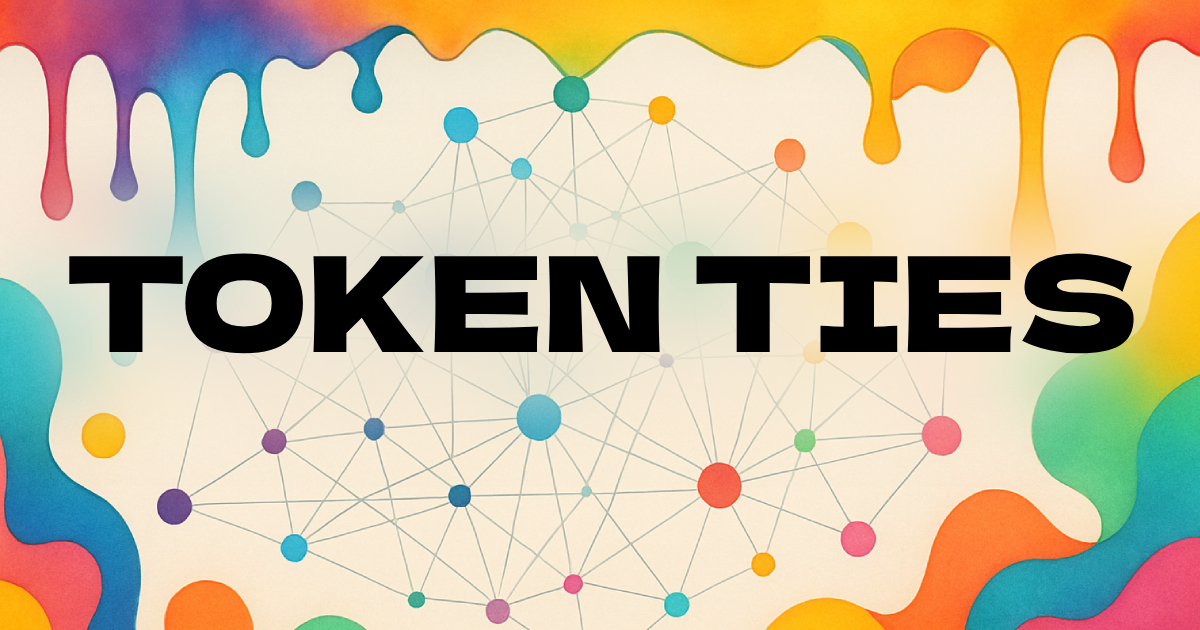
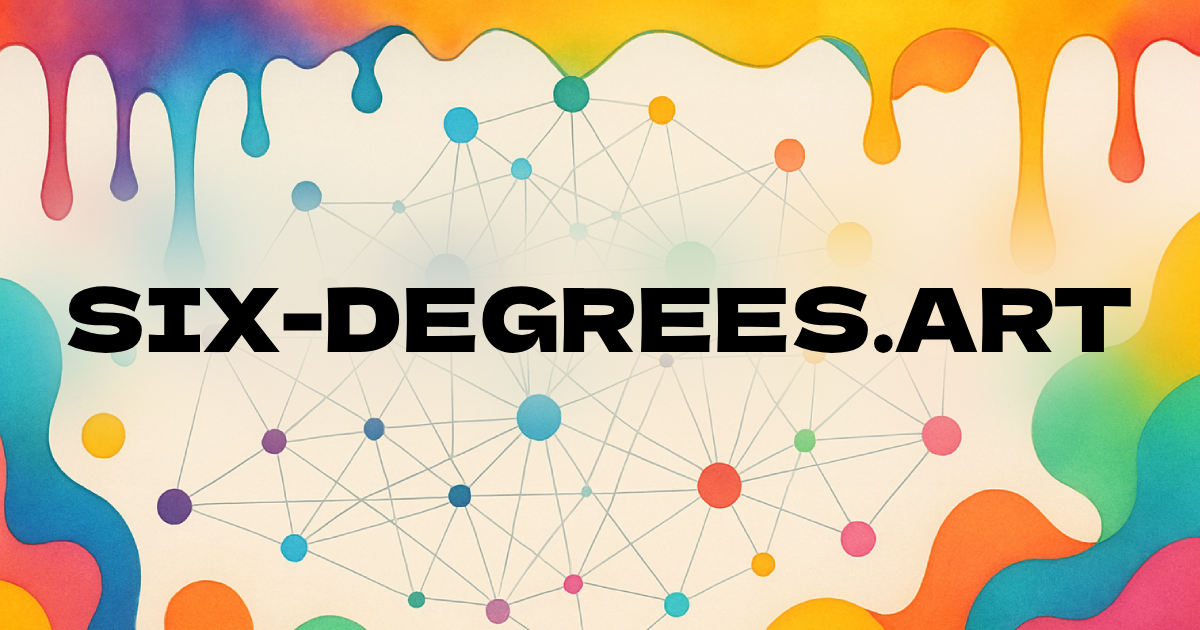
name change

Changed region(s): [[0.0308, 0.3921, 0.9558, 0.573]]

diff --git a/src/app/page.tsx b/src/app/page.tsx
@@ -25,6 +25,7 @@ import {
   Code, 
   Package, 
   ChevronDown,
+  ChevronUp,
   Hash,
   Sparkles,
   Info,
@@ -125,6 +126,9 @@ export default function Home() {
   const [existingNFTs, setExistingNFTs] = useState<Map<string, number>>(new Map()); // contract+identifier -> NFT index
   const [multiOwnership, setMultiOwnership] = useState<Map<number, Set<number>>>(new Map()); // NFT index -> Set of Profile node IDs
 
+  // Add collapsible card state
+  const [isCardCollapsed, setIsCardCollapsed] = useState(false);
+
   // Contract expansion state
   const [expandedContracts, setExpandedContracts] = useState<Set<string>>(new Set()); // Track which contracts have been expanded
   const [loadingContract, setLoadingContract] = useState(false);
@@ -134,7 +138,8 @@ export default function Home() {
   // Settings state
   const [nftFetchLimit, setNftFetchLimit] = useState(10); // Default 10 NFTs
   const [collectorFetchLimit, setCollectorFetchLimit] = useState(5); // Default 5 collectors
-  const [contractExpandLimit, setContractExpandLimit] = useState(10); // Default 10 NFTs for contract expansion
+  const [contractExpandLimit, setContractExpandLimit] = useState(10);
+  const [linkTransparency, setLinkTransparency] = useState(0.6); // Default 60% transparency // Default 10 NFTs for contract expansion
 
   // Generate graph data based on user profile and NFTs - memoized to prevent re-renders
   const gData = useMemo(() => ({
@@ -1107,24 +1112,24 @@ export default function Home() {
   return (
     <div className="w-screen h-screen m-0 p-0 overflow-hidden bg-gradient-to-br from-blue-500 to-purple-600">
       {/* Top Right Buttons */}
-      <div className="fixed top-6 right-6 z-30 flex gap-2">
+      <div className="fixed top-6 right-6 z-30 flex gap-2 flex-wrap">
         <Button
           onClick={() => setShowSettingsModal(true)}
           variant="secondary"
           size="sm"
-          className="bg-black/70 hover:bg-black/80 text-white border-white/20"
+          className="bg-black/70 hover:bg-black/80 text-white border-white/20 text-xs sm:text-sm"
         >
-          <Settings className="w-4 h-4 mr-2" />
-          Settings
+          <Settings className="w-4 h-4 mr-1 sm:mr-2" />
+          <span className="hidden sm:inline">Settings</span>
         </Button>
         <Button
           onClick={() => setShowAboutModal(true)}
           variant="secondary"
           size="sm"
-          className="bg-black/70 hover:bg-black/80 text-white border-white/20"
+          className="bg-black/70 hover:bg-black/80 text-white border-white/20 text-xs sm:text-sm"
         >
-          <Info className="w-4 h-4 mr-2" />
-          About
+          <Info className="w-4 h-4 mr-1 sm:mr-2" />
+          <span className="hidden sm:inline">About</span>
         </Button>
       </div>
 
@@ -1201,6 +1206,22 @@ export default function Home() {
               />
             </div>
             
+            <div className="space-y-2">
+              <label htmlFor="link-transparency" className="text-sm font-medium text-gray-700">
+                Link Opacity ({Math.round(linkTransparency * 100)}%)
+              </label>
+              <Input
+                id="link-transparency"
+                type="range"
+                min="0"
+                max="1"
+                step="0.1"
+                value={linkTransparency}
+                onChange={(e) => setLinkTransparency(parseFloat(e.target.value))}
+                className="w-full"
+              />
+            </div>
+            
             <div className="pt-4 border-t border-gray-200">
               <Button
                 onClick={handleReset}
@@ -1224,7 +1245,7 @@ export default function Home() {
           <DialogHeader>
             <DialogTitle className="text-2xl font-bold bg-gradient-to-r from-blue-600 to-purple-600 bg-clip-text text-transparent flex items-center gap-2">
               <Network className="w-6 h-6 text-blue-600" />
-              About Token Ties
+              About Six Degrees of Art
             </DialogTitle>
           </DialogHeader>
           <div className="space-y-4">
@@ -1269,7 +1290,7 @@ export default function Home() {
           <DialogHeader>
             <DialogTitle className="text-2xl font-bold bg-gradient-to-r from-blue-600 to-purple-600 bg-clip-text text-transparent flex items-center gap-2">
               <Network className="w-6 h-6 text-blue-600" />
-              Token Ties
+              Six Degrees of Art
             </DialogTitle>
             <DialogDescription className="text-base">
               Discover and visualize NFT collections in 3D space
@@ -1407,7 +1428,7 @@ export default function Home() {
           height={typeof window !== 'undefined' ? window.innerHeight : 600}
           backgroundColor="rgba(0,0,0,0)"
           linkColor={getLinkColor}
-          linkOpacity={0.6}
+          linkOpacity={linkTransparency}
           linkWidth={0.5}
           linkCurvature={0.2}
           nodeRelSize={6}
@@ -1444,28 +1465,43 @@ export default function Home() {
 
       {/* Consolidated Info Card */}
       {(userProfile || selectedProfile || selectedNFT) && (
-        <Card className="fixed top-6 left-6 max-w-sm z-20 backdrop-blur-md bg-black/80 border-white/20 text-white">
-          <CardHeader className="pb-3">
-            <CardTitle className="text-lg flex items-center gap-2">
-              {selectedNFT ? (
-                <>
-                  <ImageIcon className="w-5 h-5" />
-                  NFT Details
-                </>
-              ) : (selectedProfile && selectedProfile.id !== 0 ? (
-                <>
-                  <Users className="w-5 h-5" />
-                  Collector Profile
-                </>
-              ) : (
-                <>
-                  <User className="w-5 h-5" />
-                  Main Profile
-                </>
-              ))}
+        <Card className={`fixed top-6 left-6 ${isCardCollapsed ? 'w-auto min-w-[200px] max-w-[200px]' : 'max-w-[280px] sm:max-w-sm w-full sm:w-auto'} z-20 backdrop-blur-md bg-black/80 border-white/20 text-white`}>
+          <CardHeader className={`${isCardCollapsed ? 'pb-3' : 'pb-3'}`}>
+            <CardTitle className="text-lg flex items-center justify-between gap-2 min-w-0">
+              <div className="flex items-center gap-2 min-w-0">
+                                  {selectedNFT ? (
+                    <>
+                      <ImageIcon className="w-5 h-5 flex-shrink-0" />
+                      <span className="min-w-0">NFT Details</span>
+                    </>
+                  ) : (selectedProfile && selectedProfile.id !== 0 ? (
+                    <>
+                      <Users className="w-5 h-5 flex-shrink-0" />
+                      <span className="min-w-0">Collector Profile</span>
+                    </>
+                  ) : (
+                    <>
+                      <User className="w-5 h-5 flex-shrink-0" />
+                      <span className="min-w-0">Main Profile</span>
+                    </>
+                  ))}
+              </div>
+              <Button
+                variant="ghost"
+                size="sm"
+                onClick={() => setIsCardCollapsed(!isCardCollapsed)}
+                className="text-white hover:bg-white/10 h-8 w-8 p-0 flex-shrink-0"
+              >
+                {isCardCollapsed ? (
+                  <ChevronDown className="w-4 h-4" />
+                ) : (
+                  <ChevronUp className="w-4 h-4" />
+                )}
+              </Button>
             </CardTitle>
           </CardHeader>
-          <CardContent className="space-y-3">
+          {!isCardCollapsed && (
+            <CardContent className="space-y-3">
             {/* NFT Information */}
             {selectedNFT && selectedNFT.nodeType === 'nft' ? (
               <div className="space-y-3">
@@ -1833,6 +1869,7 @@ export default function Home() {
               )
             )}
           </CardContent>
+          )}
         </Card>
       )}
     </div>

diff --git a/src/app/layout.tsx b/src/app/layout.tsx
@@ -13,20 +13,20 @@ const geistMono = Geist_Mono({
 });
 
 export const metadata: Metadata = {
-  title: "Token Ties",
+  title: "Six Degrees",
   description: "Discover the connections between NFTs and collectors.",
-  metadataBase: new URL('https://www.tokenties.art/'),
+  metadataBase: new URL('https://www.six-degrees.art/'),
   openGraph: {
-    title: "Token Ties - NFT Connection Discovery",
+    title: "Six Degrees - NFT Connection Discovery",
     description: "Explore and discover the connections between NFTs and collectors. Uncover shared interests and collection patterns.",
-    url: 'https://www.tokenties.art/',
-    siteName: 'Token Ties',
+    url: 'https://www.six-degrees.art/',
+    siteName: 'Six Degrees',
     images: [
       {
         url: '/og-image.png', // You'll need to create this image
         width: 1200,
         height: 630,
-        alt: 'Token Ties - Discover NFT Connections',
+        alt: 'Six Degrees - Discover NFT Connections',
       }
     ],
     locale: 'en_US',
@@ -34,7 +34,7 @@ export const metadata: Metadata = {
   },
   twitter: {
     card: 'summary_large_image',
-    title: 'Token Ties - NFT Connection Discovery',
+    title: 'Six Degrees - NFT Connection Discovery',
     description: 'Explore and discover the connections between NFTs and collectors.',
     images: ['/og-image.png'], // Same OG image for Twitter
     creator: '@jay_wooow', // Replace with your Twitter handle
